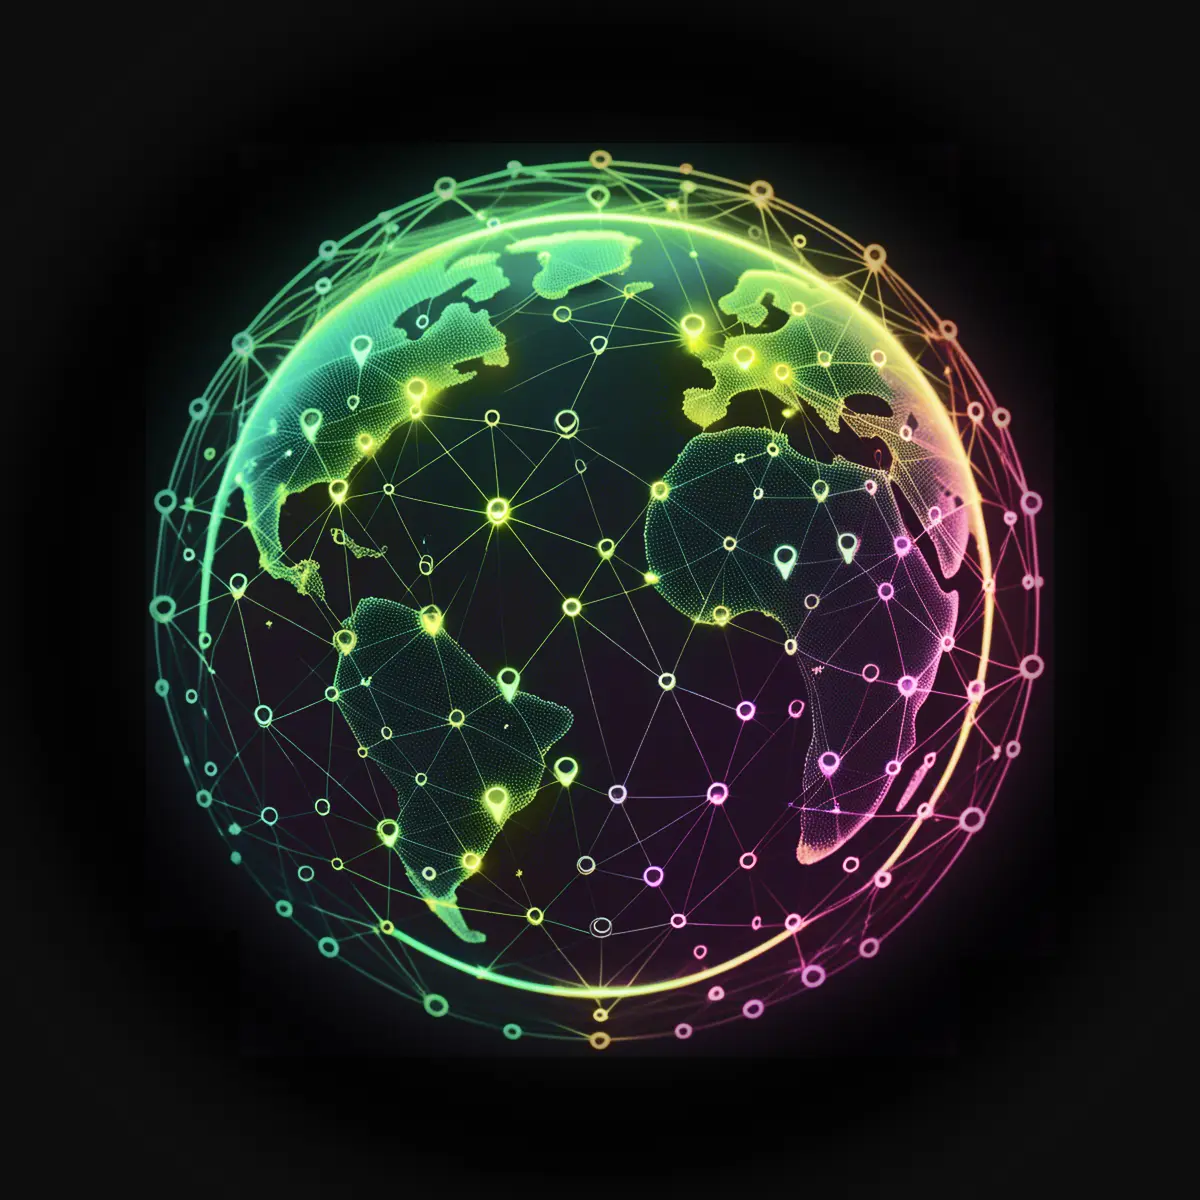
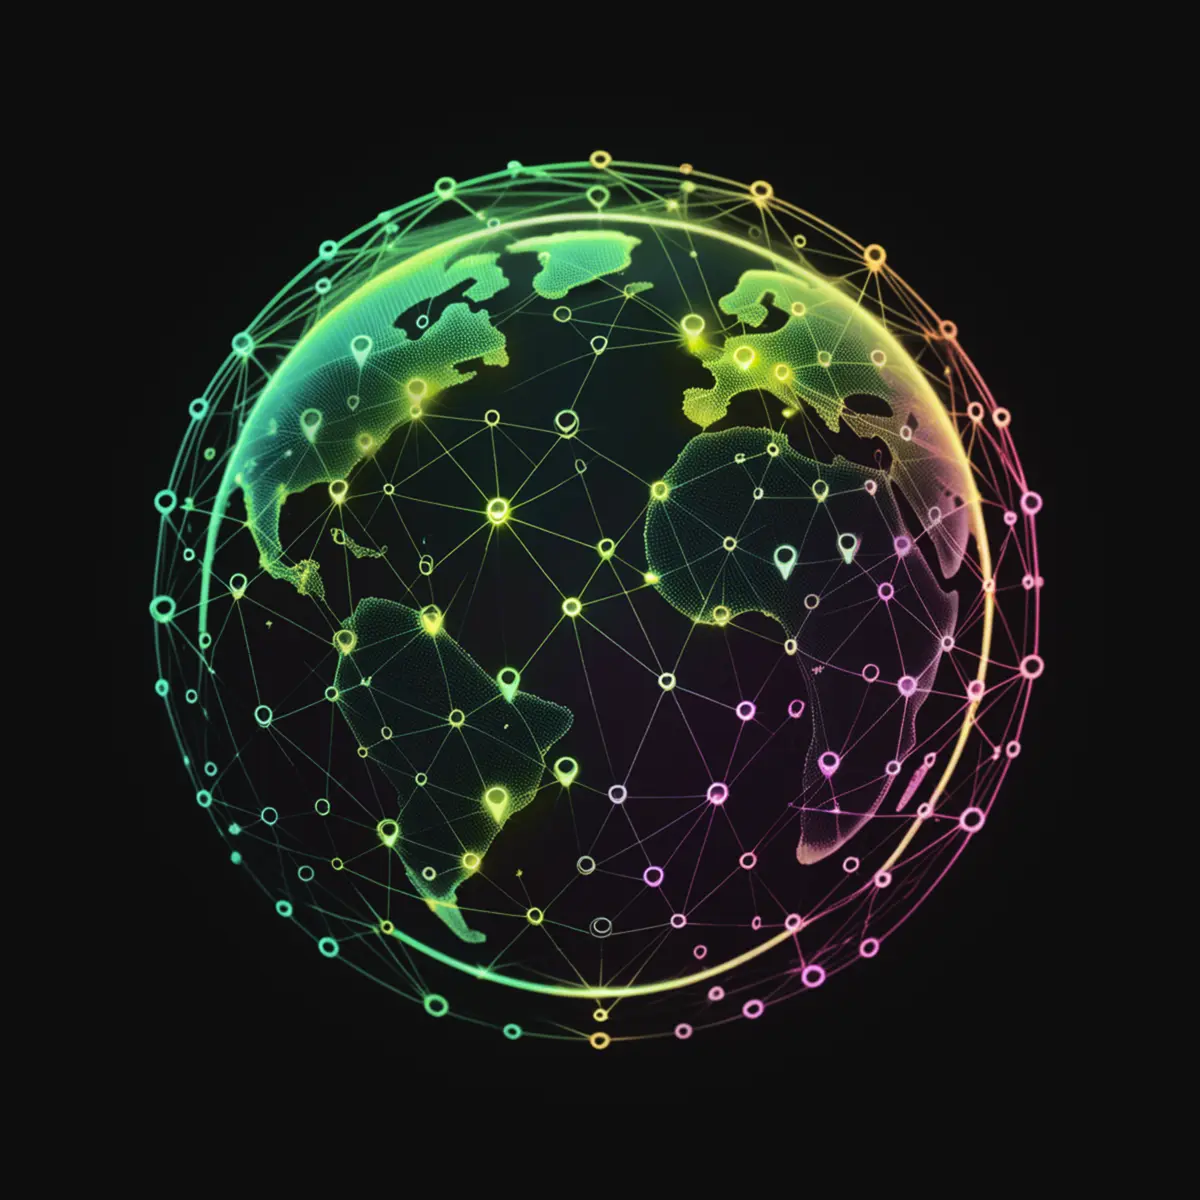
[UXIT-2415][UXIT-2409][FFDW] Fixup images [skip percy] (#1352)
* Replace projects image

* Use better images

diff --git a/apps/ffdweb-site/src/content/blog/leveraging-the-dweb-to-enhance-free-speech.md b/apps/ffdweb-site/src/content/blog/leveraging-the-dweb-to-enhance-free-speech.md
@@ -6,7 +6,7 @@ published-on: "2023-04-21T08:01:04.314Z"
 category: projects
 image:
   src: >-
-    /assets/images/6442383bfcf3ec00b87f30ee_leveraging-the-dweb-to-enhance-free-speech.png
+    /assets/images/6442383bfcf3ec00b87f30ee_leveraging-the-dweb-to-enhance-free-speech.webp
 seo:
   description: "FFDW awards $5.8M to Freedom of the Press Foundation to enhance SecureDrop, preserve press freedom data, and explore decentralized web solutions for protecting journalism."
 ---

diff --git a/apps/ffdweb-site/src/content/blog/melba-roy-mouton-a-hidden-figure-whose-legacy-paved-the-way-for-web3.md b/apps/ffdweb-site/src/content/blog/melba-roy-mouton-a-hidden-figure-whose-legacy-paved-the-way-for-web3.md
@@ -6,7 +6,7 @@ published-on: "2023-04-21T08:01:04.314Z"
 category: technology
 image:
   src: >-
-    /assets/images/6442383cfcf3ec3f5b7f32c6_melba-roy.jpeg
+    /assets/images/6442383cfcf3ec3f5b7f32c6_melba-roy.webp
 seo:
   description: "Discover how NASA mathematician Melba Roy Mouton's groundbreaking work in statistical analysis and programming documentation helped shape modern decentralized technologies."
 ---

diff --git a/apps/ffdweb-site/src/content/blog/web3-sci-fi-christopher-kulendran-thomas-s-another-world-to-debut-at-london-s-institute-of-contemporary-arts.md b/apps/ffdweb-site/src/content/blog/web3-sci-fi-christopher-kulendran-thomas-s-another-world-to-debut-at-london-s-institute-of-contemporary-arts.md
@@ -8,7 +8,7 @@ published-on: "2023-04-21T08:01:04.314Z"
 category: projects
 image:
   src: >-
-    /assets/images/6442383fef619d8564b54739_ckt-ffdw-ica.png
+    /assets/images/6442383fef619d8564b54739_ckt-ffdw-ica.webp
 seo:
   description: "Artist Christopher Kulendran Thomas debuts 'Another World' at ICA London, exploring a post-nation-state future through AI and decentralized web technologies."
 ---
